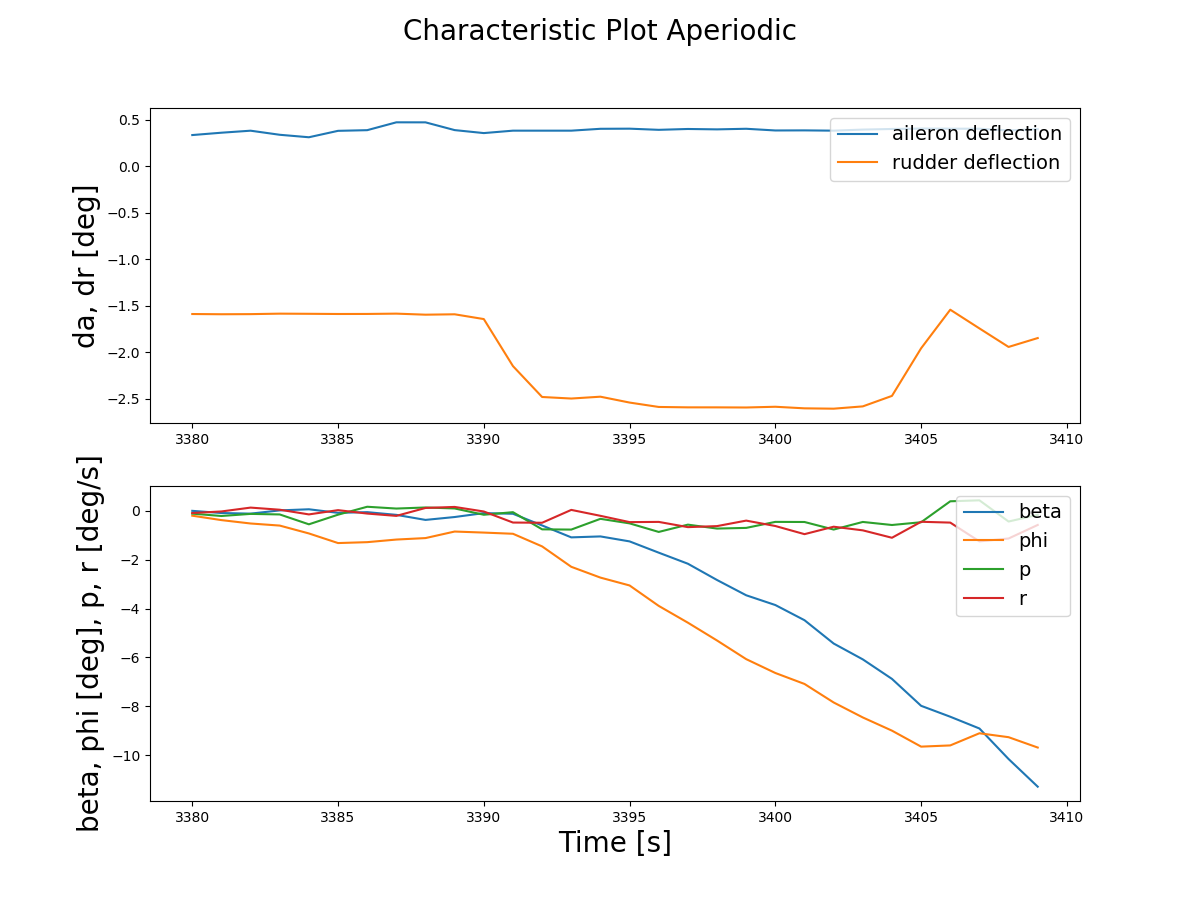
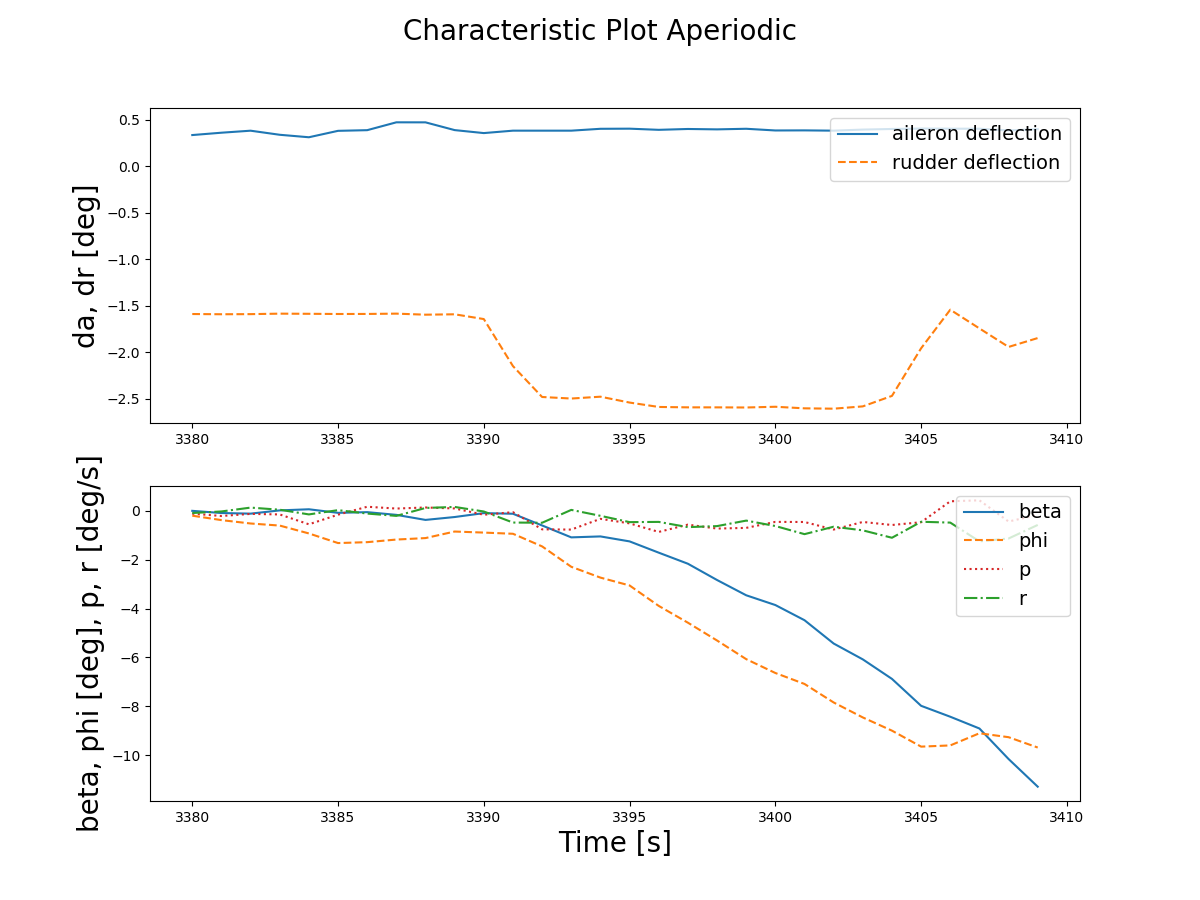
RandomShit

Changed region(s): [[0.1542, 0.56, 0.8017, 0.5911]]

diff --git a/src/data_processing/statespace/statespaceAsymmetrical.py b/src/data_processing/statespace/statespaceAsymmetrical.py
@@ -74,15 +74,15 @@ def maneuver_vals(time_start, length,name):
 
     ax1 = charPlot.add_subplot(211)
     ax1.plot(t, da, label='aileron deflection')
-    ax1.plot(t, dr, label = 'rudder deflection')
+    ax1.plot(t, dr, label = 'rudder deflection', color='tab:orange',linestyle='--')
     ax1.legend(loc='upper right',fontsize=14)
     ax1.set_ylabel("da, dr [deg]", fontsize=20)
 
     ax2 = charPlot.add_subplot(212)
     ax2.plot(t, beta, label='beta')
-    ax2.plot(t, phi, label='phi')
-    ax2.plot(t, p, label='p')
-    ax2.plot(t, r, label='r')
+    ax2.plot(t, phi, label='phi', color='tab:orange',linestyle='--')
+    ax2.plot(t, p, label='p', color='tab:red',linestyle=':')
+    ax2.plot(t, r, label='r', color='tab:green',linestyle='-.')
     ax2.legend(loc='upper right',fontsize=14)
     ax2.set_xlabel("Time [s]", fontsize=20)
     ax2.set_ylabel("beta, phi [deg], p, r [deg/s]", fontsize=20)
@@ -196,12 +196,9 @@ u = np.array([dutch[4],
 t, y, x = control.forced_response(system, dutch[0], u, dutch[6], transpose=False)
 
 #Change dimensionless pb/(2V) and rb/(2V) to p and r
-# y[1, :] = -y[1, :]
-y[2, :] = 2*abs(V0)*y[2, :]/b
-y[3, :] = 2*abs(V0)*y[3, :]/b
-
-y[2, 0] = dutch[2][0]
-y[3, 0] = dutch[3][0]
+y[1, :] = -y[1, :]+2*y[1, 0]
+y[2, :] = -(2*abs(V0)*y[2, :]/b) +2*y[2, 0]
+y[3, :] = -(2*abs(V0)*y[3, :]/b) +2*y[3, 0]
 
 control.damp(system, doprint=True)
 
@@ -209,8 +206,9 @@ fig = plt.figure(figsize=(12,9))
 fig.suptitle('Dutch Roll',fontsize=16)
 
 ax1 = fig.add_subplot(221)
-ax1.plot(t, y[0, :])
-ax1.plot(t, dutch[8], color='tab:orange',linestyle='--')
+ax1.plot(t, y[0, :], label='Simulated response')
+ax1.plot(t, dutch[8], label='Test Flight Data Response', color='tab:orange',linestyle='--')
+ax1.legend(loc='upper right')
 ax1.set_xlabel("Time [s]")
 ax1.set_ylabel("beta (yaw angle) [deg]")
 print("Dutch Roll Error in Beta:")
@@ -218,8 +216,9 @@ dutch_error_beta = L2error(dutch[8], y[0, :])
 print(dutch_error_beta)
 
 ax2 = fig.add_subplot(222)
-ax2.plot(t, y[1, :])
-ax2.plot(t, dutch[1], color='tab:orange',linestyle='--')
+ax2.plot(t, y[1, :], label='Simulated response')
+ax2.plot(t, dutch[1], label='Test Flight Data Response', color='tab:orange',linestyle='--')
+ax2.legend(loc='upper right')
 ax2.set_xlabel("Time [s]")
 ax2.set_ylabel("phi (roll angle) [deg]")
 print("Dutch Roll Error in Phi:")
@@ -227,8 +226,9 @@ dutch_error_phi = L2error(dutch[1], y[1, :])
 print(dutch_error_phi)
 
 ax3 = fig.add_subplot(223)
-ax3.plot(t, y[2, :])
-ax3.plot(t, dutch[2], color='tab:orange',linestyle='--')
+ax3.plot(t, y[2, :], label='Simulated response')
+ax3.plot(t, dutch[2], label='Test Flight Data Response', color='tab:orange',linestyle='--')
+ax3.legend(loc='upper right')
 ax3.set_xlabel("Time [s]")
 ax3.set_ylabel("p (roll rate) [deg/sec]")
 print("Dutch Roll Error in p:")
@@ -236,8 +236,9 @@ dutch_error_p = L2error(dutch[2], y[2, :])
 print(dutch_error_p)
 
 ax4 = fig.add_subplot(224)
-ax4.plot(t, y[3, :])
-ax4.plot(t, dutch[3], color='tab:orange',linestyle='--')
+ax4.plot(t, y[3, :], label='Simulated response')
+ax4.plot(t, dutch[3], label='Test Flight Data Response', color='tab:orange',linestyle='--')
+ax4.legend(loc='upper right')
 ax4.set_xlabel("Time [s]")
 ax4.set_ylabel("r (yaw rate) [deg/s]")
 print("Dutch Roll Error in r:")
@@ -313,9 +314,9 @@ u = np.array([spiral[4],
 t, y, x = control.forced_response(system, spiral[0], u, spiral[6], transpose=False)
 
 #Change dimensionless pb/(2V) and rb/(2V) to p and r
-# y[1, :] = -y[1, :]
-y[2, :] = 2*abs(V0)*y[2, :]/b
-y[3, :] = 2*abs(V0)*y[3, :]/b
+y[1, :] = -y[1, :]+2*y[1, 0]
+y[2, :] = -(2*abs(V0)*y[2, :]/b) +2*y[2, 0]
+y[3, :] = -(2*abs(V0)*y[3, :]/b) +2*y[3, 0]
 
 control.damp(system, doprint=True)
 
@@ -323,8 +324,9 @@ fig2 = plt.figure(figsize=(12,9))
 fig2.suptitle('Spiral',fontsize=16)
 
 ax1 = fig2.add_subplot(221)
-ax1.plot(t, y[0, :])
-ax1.plot(t, spiral[8], color='tab:orange',linestyle='--')
+ax1.plot(t, y[0, :], label='Simulated response')
+ax1.plot(t, spiral[8], label='Test Flight Data Response', color='tab:orange',linestyle='--')
+ax1.legend(loc='upper right')
 ax1.set_xlabel("Time [s]")
 ax1.set_ylabel("beta (yaw angle) [deg]")
 print("Spiral Roll Error in Beta:")
@@ -332,8 +334,9 @@ spiral_error_beta = L2error(spiral[8], y[0, :])
 print(spiral_error_beta)
 
 ax2 = fig2.add_subplot(222)
-ax2.plot(t, y[1, :])
-ax2.plot(t, spiral[1], color='tab:orange',linestyle='--')
+ax2.plot(t, y[1, :], label='Simulated response')
+ax2.plot(t, spiral[1], label='Test Flight Data Response', color='tab:orange',linestyle='--')
+ax2.legend(loc='upper right')
 ax2.set_xlabel("Time [s]")
 ax2.set_ylabel("phi (roll angle) [deg]")
 print("Spiral Roll Error in Phi:")
@@ -341,8 +344,9 @@ spiral_error_phi = L2error(spiral[1], y[1, :])
 print(spiral_error_phi)
 
 ax3 = fig2.add_subplot(223)
-ax3.plot(t, y[2, :])
-ax3.plot(t, spiral[2], color='tab:orange',linestyle='--')
+ax3.plot(t, y[2, :], label='Simulated response')
+ax3.plot(t, spiral[2], label='Test Flight Data Response', color='tab:orange',linestyle='--')
+ax3.legend(loc='upper right')
 ax3.set_xlabel("Time [s]")
 ax3.set_ylabel("p (roll rate) [deg/sec]")
 print("Spiral Roll Error in p:")
@@ -350,8 +354,9 @@ spiral_error_p = L2error(spiral[2], y[2, :])
 print(spiral_error_p)
 
 ax4 = fig2.add_subplot(224)
-ax4.plot(t, y[3, :])
-ax4.plot(t, spiral[3], color='tab:orange',linestyle='--')
+ax4.plot(t, y[3, :], label='Simulated response')
+ax4.plot(t, spiral[3], label='Test Flight Data Response', color='tab:orange',linestyle='--')
+ax4.legend(loc='upper right')
 ax4.set_xlabel("Time [s]")
 ax4.set_ylabel("r (yaw rate) [deg/s]")
 print("Spiral Roll Error in r:")
@@ -427,12 +432,9 @@ u = np.array([aperiodic[4],
 t, y, x = control.forced_response(system, aperiodic[0], u, aperiodic[6], transpose=False)
 
 #Change dimensionless pb/(2V) and rb/(2V) to p and r
-# y[1, :] = -y[1, :]
-y[2, :] = 2*abs(V0)*y[2, :]/b
-y[3, :] = 2*abs(V0)*y[3, :]/b
-
-y[2, 0] = aperiodic[2][0]
-y[3, 0] = aperiodic[3][0]
+y[1, :] = -y[1, :]+2*y[1, 0]
+y[2, :] = -(2*abs(V0)*y[2, :]/b) +2*y[2, 0]
+y[3, :] = -(2*abs(V0)*y[3, :]/b) + 2*y[3, 0]
 
 control.damp(system, doprint=True)
 
@@ -440,8 +442,9 @@ fig3 = plt.figure(figsize=(12,9))
 fig3.suptitle('Aperiodic',fontsize=16)
 
 ax1 = fig3.add_subplot(221)
-ax1.plot(t, y[0, :])
-ax1.plot(t, aperiodic[8], color='tab:orange',linestyle='--')
+ax1.plot(t, y[0, :], label='Simulated response')
+ax1.plot(t, aperiodic[8], label='Test Flight Data Response', color='tab:orange',linestyle='--')
+ax1.legend(loc='upper right')
 ax1.set_xlabel("Time [s]")
 ax1.set_ylabel("beta (yaw angle) [deg]")
 print("Aperiodic Roll Error in Beta:")
@@ -449,8 +452,9 @@ aperiodic_error_beta = L2error(aperiodic[8], y[0, :])
 print(aperiodic_error_beta)
 
 ax2 = fig3.add_subplot(222)
-ax2.plot(t, y[1, :])
-ax2.plot(t, aperiodic[1], color='tab:orange',linestyle='--')
+ax2.plot(t, y[1, :], label='Simulated response')
+ax2.plot(t, aperiodic[1], label='Test Flight Data Response', color='tab:orange',linestyle='--')
+ax2.legend(loc='upper right')
 ax2.set_xlabel("Time [s]")
 ax2.set_ylabel("phi (roll angle) [deg]")
 print("Aperiodic Roll Error in Phi:")
@@ -458,8 +462,9 @@ aperiodic_error_phi = L2error(aperiodic[1], y[1, :])
 print(aperiodic_error_phi)
 
 ax3 = fig3.add_subplot(223)
-ax3.plot(t, y[2, :])
-ax3.plot(t, aperiodic[2], color='tab:orange',linestyle='--')
+ax3.plot(t, y[2, :], label='Simulated response')
+ax3.plot(t, aperiodic[2], label='Test Flight Data Response', color='tab:orange',linestyle='--')
+ax3.legend(loc='upper right')
 ax3.set_xlabel("Time [s]")
 ax3.set_ylabel("p (roll rate) [deg/sec]")
 print("Aperiodic Roll Error in p:")
@@ -467,8 +472,9 @@ aperiodic_error_p = L2error(aperiodic[2], y[2, :])
 print(aperiodic_error_p)
 
 ax4 = fig3.add_subplot(224)
-ax4.plot(t, y[3, :])
-ax4.plot(t, aperiodic[3], color='tab:orange',linestyle='--')
+ax4.plot(t, y[3, :], label='Simulated response')
+ax4.plot(t, aperiodic[3], label='Test Flight Data Response', color='tab:orange',linestyle='--')
+ax4.legend(loc='upper right')
 ax4.set_xlabel("Time [s]")
 ax4.set_ylabel("r (yaw rate) [deg/s]")
 print("Aperiodic Roll Error in r:")

diff --git a/src/data_processing/statespace/statespace.py b/src/data_processing/statespace/statespace.py
@@ -81,10 +81,10 @@ def maneuver_vals(time_start, time_length, name):
     ax1.set_ylabel("de [deg]", fontsize=20)
 
     ax2 = charPlot.add_subplot(212)
-    ax2.plot(t, u, label='u')
-    ax2.plot(t, w, label='w')
-    ax2.plot(t, pitch, label='pitch')
-    ax2.plot(t, q, label='q')
+    ax2.plot(t, u)
+    ax2.plot(t, w, label='w', color='tab:orange',linestyle='--')
+    ax2.plot(t, pitch, label='pitch', color='tab:red',linestyle=':')
+    ax2.plot(t, q, label='q', color='tab:green',linestyle='-.')
     ax2.legend(loc='upper right', fontsize=14)
     ax2.set_xlabel("Time [s]", fontsize=20)
     ax2.set_ylabel("u, w [m/s], pitch [deg], q [deg/s]", fontsize=20)
@@ -128,7 +128,7 @@ def L2error(x_exact: np.array, x_numerical: np.array):
     return error
 
 phugoid = maneuver_vals(2836, 200, 'Phugoid')
-short = maneuver_vals(2760, 50, 'Short')
+short = maneuver_vals(2760, 50, 'Short Period')
 
 g = 9.80665
 
@@ -205,8 +205,9 @@ fig = plt.figure(figsize=(12,9))
 fig.suptitle('Phugoid',fontsize=16)
 
 ax1 = fig.add_subplot(221)
-ax1.plot(t, y[0, :])
-ax1.plot(t, phugoid[6], color='tab:orange',linestyle='--')
+ax1.plot(t, y[0, :], label='Simulated Response')
+ax1.plot(t, phugoid[6], label='Test Flight Data Response', color='tab:orange',linestyle='--')
+ax1.legend(loc='upper right')
 ax1.set_xlabel("Time [s]")
 ax1.set_ylabel("u (x-dir. disturbance in velocity) [m/s]")
 ax1.grid()
@@ -215,9 +216,10 @@ phugoid_error_u = L2error(phugoid[6], y[0, :])
 print(phugoid_error_u)
 
 ax2 = fig.add_subplot(222)
-ax2.plot(t, y[1, :])
+ax2.plot(t, y[1, :], label='Simulated Response')
 #alpha
-ax2.plot(t, phugoid[8], color='tab:orange',linestyle='--')
+ax2.plot(t, phugoid[8], label='Test Flight Data Response', color='tab:orange',linestyle='--')
+ax2.legend(loc='upper right')
 ax2.set_xlabel("Time [s]")
 ax2.set_ylabel("w (z-dir. disturbance in velocity) [m/s]")
 ax2.grid()
@@ -226,9 +228,10 @@ phugoid_error_w = L2error(phugoid[8], y[1, :])
 print(phugoid_error_w)
 
 ax3 = fig.add_subplot(223)
-ax3.plot(t, y[2, :])
+ax3.plot(t, y[2, :], label='Simulated Response')
 #theta
-ax3.plot(t, phugoid[3], color='tab:orange',linestyle='--')
+ax3.plot(t, phugoid[3], label='Test Flight Data Response', color='tab:orange',linestyle='--')
+ax3.legend(loc='upper right')
 ax3.set_xlabel("Time [s]")
 ax3.set_ylabel("Theta (Pitch Angle) [deg]")
 ax3.grid()
@@ -237,9 +240,10 @@ phugoid_error_th = L2error(phugoid[3], y[2, :])
 print(phugoid_error_th)
 
 ax4 = fig.add_subplot(224)
-ax4.plot(t, y[3, :])
+ax4.plot(t, y[3, :], label='Simulated Response')
 #q
-ax4.plot(t, phugoid[4], color='tab:orange',linestyle='--')
+ax4.plot(t, phugoid[4], label='Test Flight Data Response', color='tab:orange',linestyle='--')
+ax4.legend(loc='upper right')
 ax4.set_xlabel("Time [s]")
 ax4.set_ylabel("q (Pitch Rate) [deg/s]")
 ax4.grid()
@@ -311,8 +315,9 @@ fig2 = plt.figure(figsize=(12,9))
 fig2.suptitle('Short Period',fontsize=16)
 
 ax1 = fig2.add_subplot(221)
-ax1.plot(t, y[0, :])
-ax1.plot(t, short[6], color='tab:orange',linestyle='--')
+ax1.plot(t, y[0, :], label='Simulated Response')
+ax1.plot(t, short[6], label='Test Flight Data Response', color='tab:orange',linestyle='--')
+ax1.legend(loc='upper right')
 ax1.set_xlabel("Time [s]")
 ax1.set_ylabel("u (x-dir. disturbance in velocity) [m/s]")
 ax1.grid()
@@ -321,9 +326,10 @@ short_error_u = L2error(short[6], y[0, :])
 print(short_error_u)
 
 ax2 = fig2.add_subplot(222)
-ax2.plot(t, y[1, :])
+ax2.plot(t, y[1, :], label='Simulated Response')
 #alpha
-ax2.plot(t, short[8], color='tab:orange',linestyle='--')
+ax2.plot(t, short[8], label='Test Flight Data Response', color='tab:orange',linestyle='--')
+ax2.legend(loc='upper right')
 ax2.set_xlabel("Time [s]")
 ax2.set_ylabel("w (z-dir. disturbance in velocity) [m/s]")
 ax2.grid()
@@ -332,9 +338,10 @@ short_error_w = L2error(short[8], y[1, :])
 print(short_error_w)
 
 ax3 = fig2.add_subplot(223)
-ax3.plot(t, y[2, :])
+ax3.plot(t, y[2, :], label='Simulated Response')
 #theta
-ax3.plot(t, short[3], color='tab:orange',linestyle='--')
+ax3.plot(t, short[3], label='Test Flight Data Response', color='tab:orange',linestyle='--')
+ax3.legend(loc='upper right')
 ax3.set_xlabel("Time [s]")
 ax3.set_ylabel("Theta (Pitch Angle) [deg]")
 ax3.grid()
@@ -343,9 +350,10 @@ short_error_th = L2error(short[3], y[2, :])
 print(short_error_th)
 
 ax4 = fig2.add_subplot(224)
-ax4.plot(t, y[3, :])
+ax4.plot(t, y[3, :], label='Simulated Response')
 #q
-ax4.plot(t, short[4], color='tab:orange',linestyle='--')
+ax4.plot(t, short[4], label='Test Flight Data Response', color='tab:orange',linestyle='--')
+ax4.legend(loc='upper right')
 ax4.set_xlabel("Time [s]")
 ax4.set_ylabel("q (Pitch Rate) [deg/s]")
 ax4.grid()
